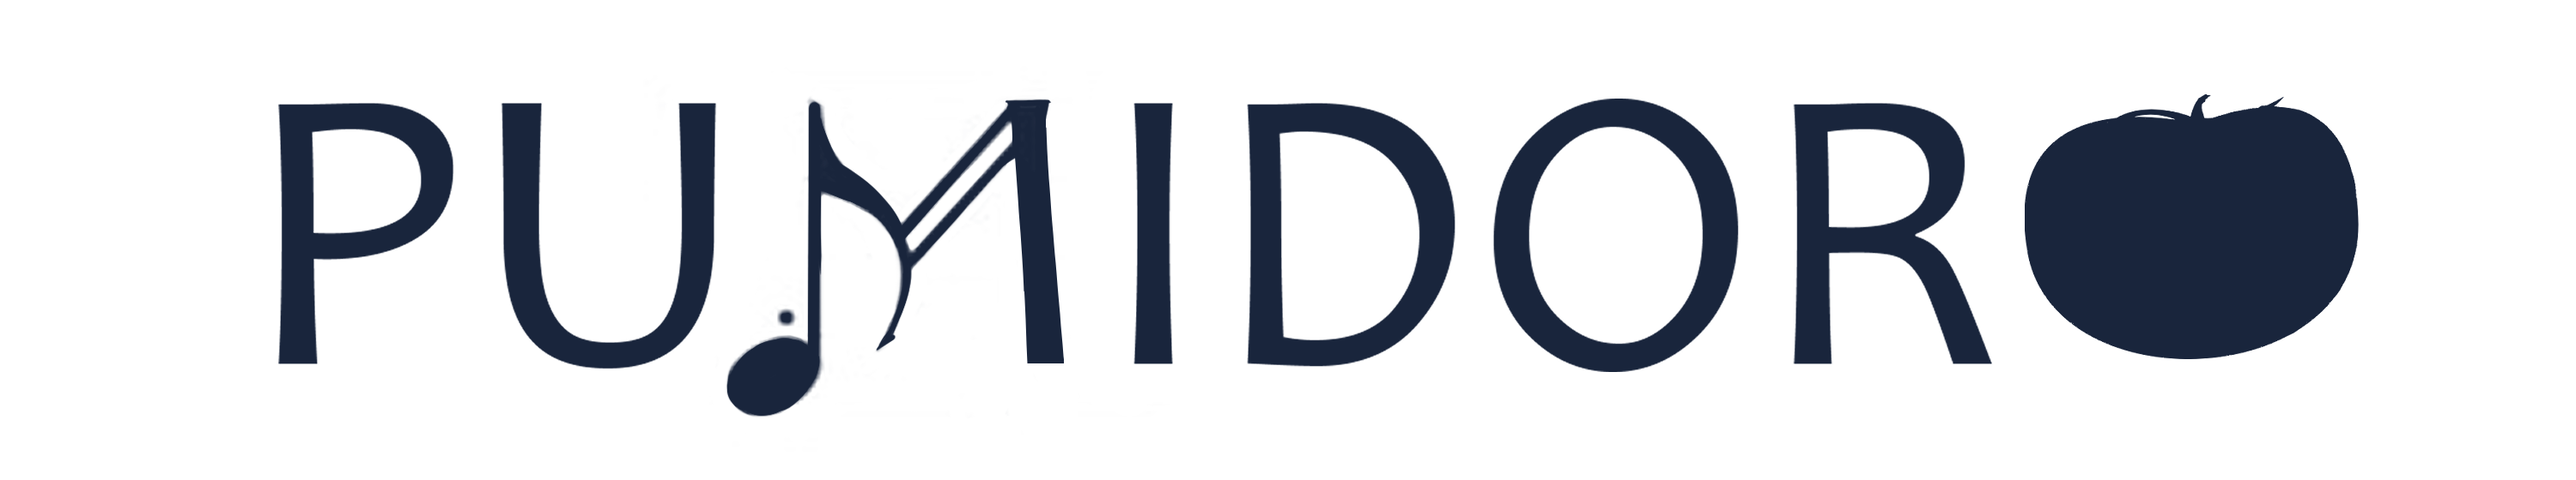
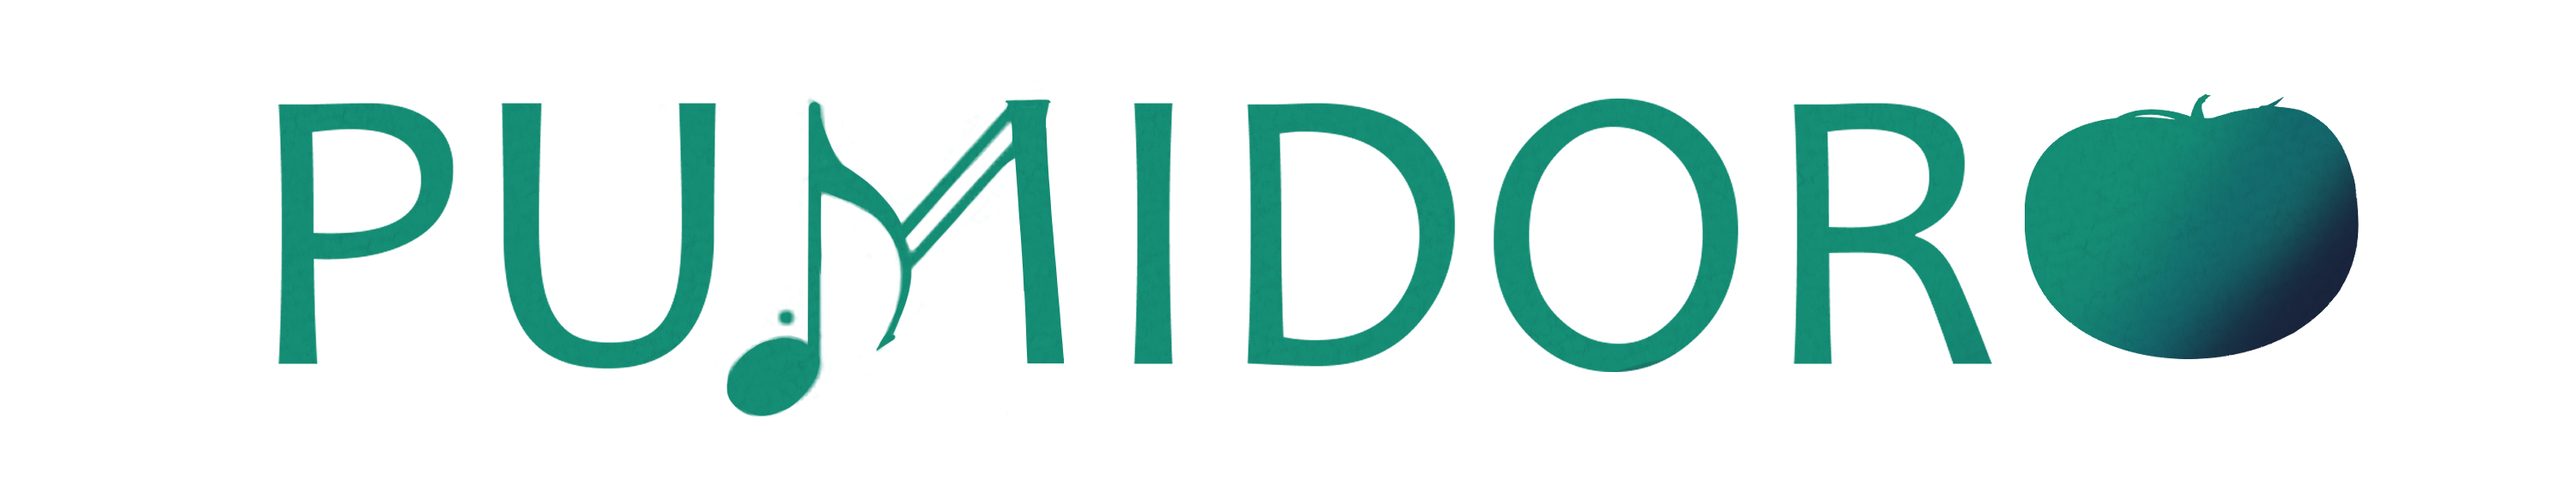
changed logo_text color, fixed error message

Changed region(s): [[0.093, 0.1821, 0.93, 0.8804]]

diff --git a/frontend/src/components/Register.js b/frontend/src/components/Register.js
@@ -190,8 +190,8 @@ const Register = () => {
               >
                 <path d="M16 8A8 8 0 1 1 0 8a8 8 0 0 1 16 0zM8 4a.905.905 0 0 0-.9.995l.35 3.507a.552.552 0 0 0 1.1 0l.35-3.507A.905.905 0 0 0 8 4zm.002 6a1 1 0 1 0 0 2 1 1 0 0 0 0-2z" />
               </svg>
-              Password must be at least 8 characters and contains at least one
-              number, one lowercase character and one uppercase character.
+              Password must be at least 8 characters and contains at least ONE
+              number, ONE lowercase character, ONE uppercase character and NO special characters.
             </div>
             <div className="confirm-password login-register-input">
               <div className="formlabel" for="confirmPassword">
